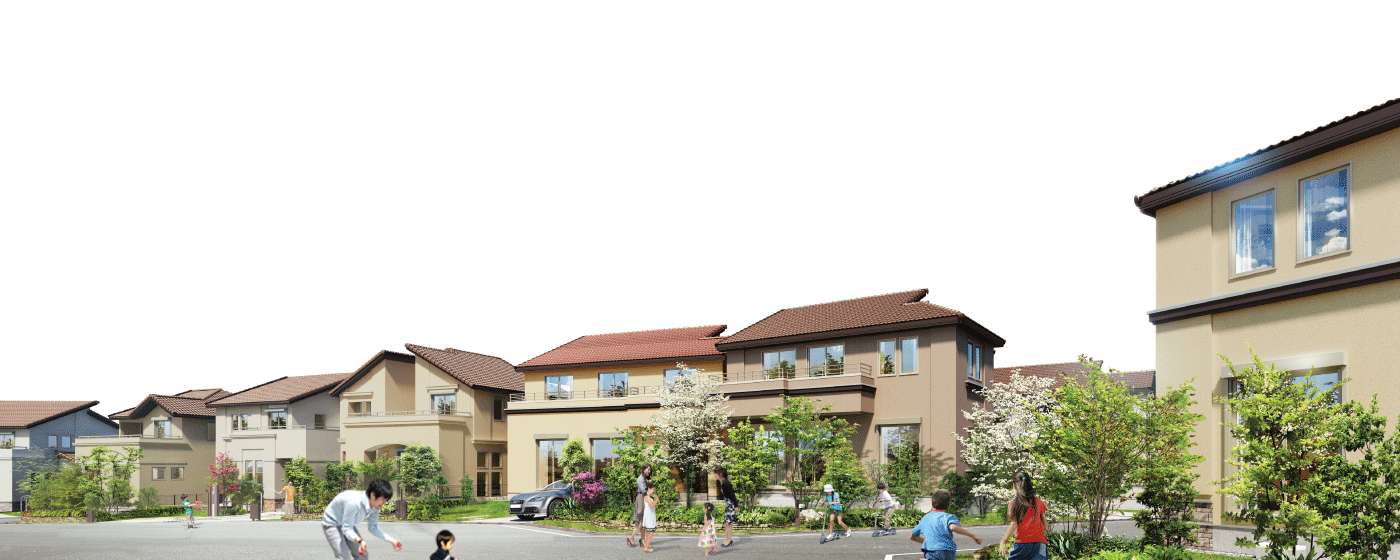
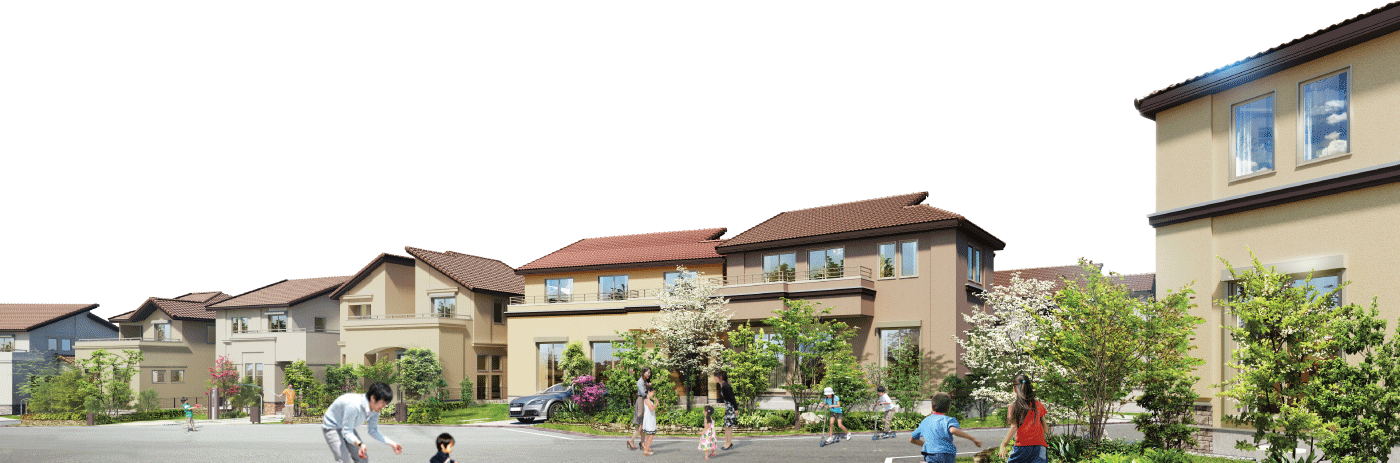
s

diff --git a/leafia_minamiosawa_4th/index.html b/leafia_minamiosawa_4th/index.html
@@ -33,6 +33,7 @@
       <script type="text/javascript" src="common/slick/slick.js"></script>
       <!-- bxslider -->
       <script src="common/bxslider/jquery.bxslider.js"></script>
+      <script src="js/swipe.js"></script>
       <link rel="stylesheet" type="text/css" href="common/bxslider/slide.css" />
       <script type="text/javascript">
          $(document).ready(function(){
@@ -49,15 +50,44 @@
 		    var imgWidth = 2765;
 		    //画像の初期位置
 		    var posX = 0;
+          var inter = null;
 		    //ループ処理
-		    setInterval(function(){
+		    inter = setInterval(function(){
 		        //画像のサイズまで移動したら0に戻る。
 		        if (posX >= imgWidth) posX= 0;
 		        //scrollSpeed分移動
 		        posX -= scrollSpeed;
 		        $('.mainSlide .slide').css("background-position",posX+"px 0px");
 		    }, 1);
-		});
+
+          var curDown = false;
+           $('.slidetmp').mousemove(function(m){
+             clearInterval(inter); 
+		    });
+           $('.slidetmp').mouseout(function(m){
+             inter = setInterval(function(){
+              //画像のサイズまで移動したら0に戻る。
+              if (posX >= imgWidth) posX= 0;
+                 //scrollSpeed分移動
+                 posX -= scrollSpeed;
+                 $('.mainSlide .slide').css("background-position",posX+"px 0px");
+               }, 1);
+          });
+           var scrollleft = 5;
+           $( ".slidetmp" ).swipe(function( direction, offset ) {
+              if(direction.x == 'right'){
+               if (posX >= imgWidth) posX= 0;
+                 //scrollSpeed分移動
+                 posX += scrollleft;
+                 $('.mainSlide .slide').css("background-position",posX+"px 0px");
+              }else{
+                  if (posX >= imgWidth) posX= 0;
+                 //scrollSpeed分移動
+                 posX -= scrollleft;
+                 $('.mainSlide .slide').css("background-position",posX+"px 0px");
+              }
+            });
+         });
       </script>
    </head>
    <body class="base">
@@ -134,6 +164,7 @@
          </div>
          <!-- / #header -->
          <div id="container">
+
             <div id="mainContent" class="article">
                <div class="mainSlider" style="display: none;">
                   <div class="inner">
@@ -151,6 +182,7 @@
                      </div> -->
                </div>
                <div class="mainSlide">
+                     <div class="slidetmp"></div>
                		<div class="logo">
                			<img src="imgs/toppage/logo.png" alt="" class="desktop"/>
                			<img src="imgs/toppage/logo-mb.png" alt="" class="mobile"/>
@@ -177,6 +209,7 @@
                </div>
                <!-- / #obiArea -->
                <div class="infopikupWrap">
+
                   <div class="information">
                      <h3><img src="common/imgs/h-information.png" alt="Information"></h3>
                      <div class="frameBox">
@@ -184,6 +217,8 @@
                      </div>
                      <!-- / #frameBox -->
                   </div>
+                  <a href="#" class="movetop"><img src="imgs/toppage/top.png"/></a>
+                  <div class="clear mobile"></div>
                   <!-- / .section.information -->
                   <div class="pickup">
                      <h3><img src="common/imgs/h-pickup.png" alt="Pickup"></h3>

diff --git a/leafia_minamiosawa_4th/css/style.css b/leafia_minamiosawa_4th/css/style.css
@@ -1,12 +1,25 @@
 @charset "utf-8";
 	
-	.mainSlide{position: relative;}
+	.mainSlide{position: relative;height: 560px;}
 	.mainSlide .bg{
-		background: url(../imgs/toppage/main.png) no-repeat center;
+		background: url(../imgs/toppage/main.png) no-repeat  center;
 		width: 100%;
-		height: 560px;
+		height: 463px;
 		background-size: cover;
 		position: relative;
+		top: 97px;
+	}
+	.marquee-slide{
+		position: absolute;
+		width: 100%;
+		left: 0;
+	}
+	.slidetmp{
+		cursor: pointer;
+		position: absolute;
+		z-index: 100;
+		width: 100%;
+		height: 320px;
 	}
 	.mainSlide .slide{
 		position: absolute;
@@ -16,7 +29,14 @@
 		width: 100%;
 		height: 560px;
 	}
-		
+	.infopikupWrap {
+		position: relative;
+	}
+	.movetop{
+		    position: absolute;
+    right: -100px;
+    top: 36px;
+	}
 	.mainSlide .logo {
 	    position: absolute;
 	    z-index: 10;
@@ -383,6 +403,7 @@ body div.pickup ul.pickupList li img.grayout {
 		.mainSlide .bg{
 			background: url(../imgs/toppage/main-mb.png) no-repeat center;
 			height: 447px;
+			top: 0;
 		}
 		.mainSlide .slide{
 			background: url(../imgs/toppage/slide-mb.png) repeat-x center;
@@ -392,6 +413,14 @@ body div.pickup ul.pickupList li img.grayout {
 		}
 		.capindex span{
 			display: inline;
+		}
+		.movetop{
+			position: relative;
+			float: right;
+			right:0;
+		}
+		.mainSlide{
+			height: 447px;
 		}
 	}
 

diff --git a/leafia_minamiosawa_4th/js/swipe.js b/leafia_minamiosawa_4th/js/swipe.js
@@ -1,0 +1,48 @@
+$(function() {
+  $.fn.swipe = function( callback ) {
+    var touchDown = false,
+      originalPosition = null,
+      $el = $( this );
+
+    function swipeInfo( event ) {
+      var x = event.originalEvent.pageX,
+        y = event.originalEvent.pageY,
+        dx, dy;
+
+      dx = ( x > originalPosition.x ) ? "right" : "left";
+      dy = ( y > originalPosition.y ) ? "down" : "up";
+
+      return {
+        direction: {
+          x: dx,
+          y: dy
+        },
+        offset: {
+          x: x - originalPosition.x,
+          y: originalPosition.y - y
+        }
+      };
+    }
+
+    $el.on( "touchstart mousedown", function ( event ) {
+      touchDown = true;
+      originalPosition = {
+        x: event.originalEvent.pageX,
+        y: event.originalEvent.pageY
+      };
+    } );
+
+    $el.on( "touchend mouseup", function () {
+      touchDown = false;
+      originalPosition = null;
+    } );
+
+    $el.on( "touchmove mousemove", function ( event ) {
+      if ( !touchDown ) { return;}
+      var info = swipeInfo( event );
+      callback( info.direction, info.offset );
+    } );
+
+    return true;
+  };
+});
